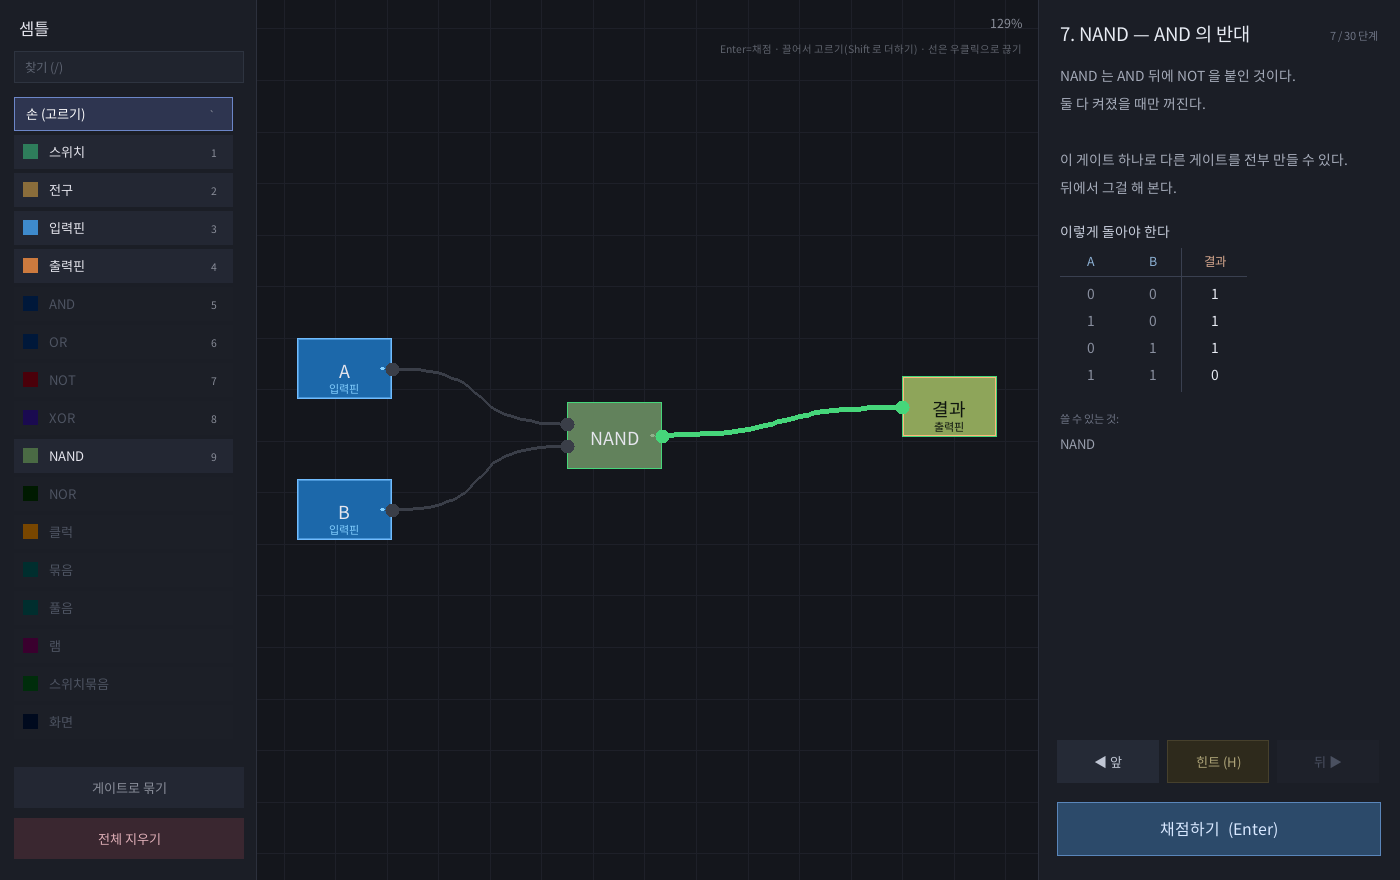
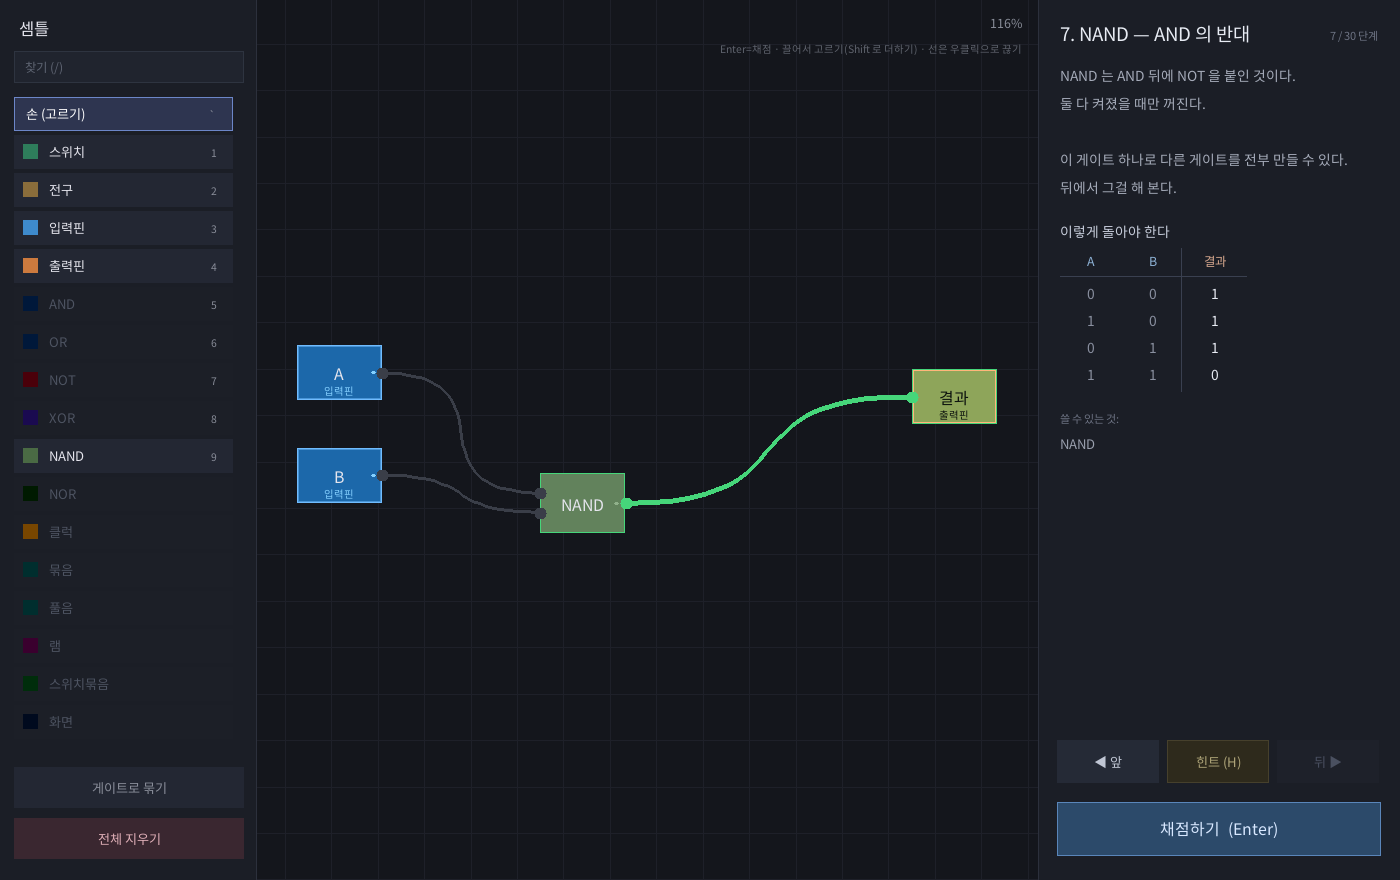
폭 있는 입력핀을 칸으로, 24단계 문구 고침
8비트 입력핀을 눌러도 0 아니면 1 밖에 안 들어갔다. 이제 스위치묶음처럼
칸이 생겨서 비트를 하나씩 켠다. 1비트 핀은 예전처럼 통째로 뒤집힌다.

핀이 커지니 학습 단계에서 서로 겹쳐서, 시작할 때 핀 키만큼 띄우게 했다.

24단계 설명에서 만든 사람 얘기를 뺐다. 남들이 쓰는 것이라 안 맞는다.

정답 그림도 다시 뽑았다.

diff --git a/semtle.cpp b/semtle.cpp
@@ -198,6 +198,13 @@ static bool canFold(const Comp& c) {
 static bool isFolded(const Comp& c) {
     return canFold(c) && (c.aux & FOLD_BIT);
 }
+// 칸을 눌러 비트를 켜는 것들. 폭 있는 입력핀도 스위치묶음처럼 다룬다 —
+// 안 그러면 8비트 핀을 눌러도 0 아니면 1 밖에 못 넣는다.
+static bool isBitBank(const Comp& c) {
+    if (c.chipId >= 0) return false;
+    if (c.type == SWBANK) return true;
+    return c.type == PIN_IN && widthOf(c) > 1;
+}
 // 화면이 받는 줄 수 (n). 폭(m)은 widthOf 가 준다.
 static int screenRows(const Comp& c) {
     if (c.type != SCREEN) return 1;
@@ -903,12 +910,12 @@ static void zoomAt(float nz, int sx, int sy) {
 // 안 돌린 상태의 크기
 static int baseW(const Comp& c) {
     if (c.type == SCREEN) return std::max(GW_MIN, widthOf(c) * 14 + 20);
-    if (c.type == SWBANK) return std::max(GW_MIN, 64);
+    if (isBitBank(c)) return std::max(GW_MIN, textWidth(13, compName(c)) + 24);
     return std::max(GW_MIN, textWidth(15, compName(c)) + 26);
 }
 static int baseH(const Comp& c) {
     if (c.type == SCREEN) return std::max(48, screenRows(c) * 14 + 28);
-    if (c.type == SWBANK) return std::max(48, widthOf(c) * 20 + 24);
+    if (isBitBank(c)) return std::max(48, widthOf(c) * 20 + 34);
     if (isFolded(c)) return 52;          // 접으면 게이트만 한 크기
     return std::max(48, std::max(nIn(c), nOut(c)) * 20 + 12);
 }
@@ -1143,11 +1150,12 @@ static bool inPortAt(int mx, int my, int& comp, int& port) {
 }
 // 스위치묶음에서 누른 비트 자리 (없으면 -1)
 static int swBankBitAt(const Comp& c, int wx2, int wy2) {
-    if (c.type != SWBANK) return -1;
+    if (!isBitBank(c)) return -1;
     int w = compW(c), h = compH(c);
     if (wx2 < c.x || wx2 >= c.x + w || wy2 < c.y || wy2 >= c.y + h) return -1;
     int wd = widthOf(c), pad = 4;
-    int rowH = (h - 20 - pad) / std::max(1, wd);
+    int top = (c.type == PIN_IN) ? 18 : 0;
+    int rowH = (h - 20 - pad - top) / std::max(1, wd);
     if (rowH <= 0) return -1;
     int fromBottom = (c.y + h - 20) - wy2;
     if (fromBottom < 0) return -1;
@@ -1650,9 +1658,9 @@ static const Lesson LESSONS[] = {
     { "계산기", "24. 더하고 빼기",
       "덧셈기로 빼기도 한다.\n\n"
       "B 를 뒤집고 1 을 더하면 -B 가 된다(2의 보수).\n"
-      "네가 만든 4비트 가감산기와 같은 수법이다.\n\n"
-      "빼기 신호를 B 의 각 비트와 XOR 하고,\n"
-      "그 신호를 맨 아랫자리 올림입력에도 넣으면 된다.",
+      "그러면 A + (-B) 가 A - B 다.\n\n"
+      "빼기 신호를 B 의 각 비트와 XOR 하면 뒤집히고,\n"
+      "그 신호를 1 로도 쓰면 +1 까지 한꺼번에 된다.",
       3, 1, { "A", "B", "빼기" }, { "결과" },
       {}, "덧셈기8 묶음 풀음 XOR", true,
       "풀음으로 B 를 여덟 가닥 푼다.\n각 가닥을 빼기와 XOR 한다.\n묶음으로 다시 묶어 덧셈기8 의 B 에.\n빼기가 1이면 +1 도 해야 하는데,\n덧셈기8 에 올림입력이 없으니 A 쪽에 1을 더해도 된다.",
@@ -1856,17 +1864,22 @@ static bool gradeLesson(const Lesson& L, char* why, size_t whyN) {
 static void setupLesson(int at) {
     const Lesson& L = LESSONS[std::clamp(at, 0, LESSON_N - 1)];
     world = SubSim{};
+    // 폭 있는 입력핀은 칸이 여럿이라 키가 크다. 겹치지 않게 키만큼 띄운다.
+    int y = 60;
     for (int i = 0; i < L.nIn; ++i) {
-        int c = addComp(world, PIN_IN, 90, 120 + i * 110);
+        int c = addComp(world, PIN_IN, 90, y);
         world.comps[c].label = L.inName[i];
         world.comps[c].aux = lesInW(L, i);
         resizePorts(world.comps[c]);
+        y += compH(world.comps[c]) + 40;
     }
+    y = 80;
     for (int i = 0; i < L.nOut; ++i) {
-        int c = addComp(world, PIN_OUT, 560, 150 + i * 110);
+        int c = addComp(world, PIN_OUT, 620, y);
         world.comps[c].label = L.outName[i];
         world.comps[c].aux = lesOutW(L, i);
         resizePorts(world.comps[c]);
+        y += compH(world.comps[c]) + 40;
     }
     viewZoom = 1.0f; viewX = 0; viewY = 0;
 }
@@ -2267,7 +2280,33 @@ static void drawComp(SDL_Renderer* ren, int idx, const std::vector<int>& sel) {
     int   ts = std::max(7, (int)(15 * viewZoom));     // 글자 크기도 같이 줄고 는다
     int   cx = box.x + box.w / 2;
 
-    if (isPin(c.type)) {
+    if (isBitBank(c)) {
+        // 겉모습이 스위치 n개다. 칸을 눌러 그 비트를 켜고 끈다.
+        fillRect(ren, box, shade(base, -34));
+        frameRect(ren, box, shade(base, 40));
+        // 핀이면 이름을 위에 적어 준다 (어느 입력인지 알아야 하니까)
+        if (c.type == PIN_IN)
+            drawTextC(ren, cx, box.y + w2sLen(3), 13, 0xC8DCF4, compName(c));
+        int wd = widthOf(c);
+        Val v = c.out.empty() ? 0 : c.out[0];
+        int pad = std::max(2, w2sLen(4));
+        int top = (c.type == PIN_IN) ? w2sLen(18) : 0;
+        int rowH = (box.h - w2sLen(20) - pad - top) / std::max(1, wd);
+        for (int i = 0; i < wd; ++i) {
+            bool on = (v >> i) & 1;                     // 0번이 맨 아래
+            Rect r{ box.x + pad, box.y + box.h - w2sLen(20) - (i + 1) * rowH,
+                    box.w - pad * 2, std::max(2, rowH - 1) };
+            fillRect(ren, r, on ? blend(base, COL_ON, 170) : 0x252A30);
+            if (rowH >= w2sLen(9)) {
+                char d[2] = { (char)('0' + (on ? 1 : 0)), 0 };
+                drawTextC(ren, r.x + r.w/2, r.y + (r.h - S(11))/2, 11,
+                          on ? 0x0E140F : 0x6C7280, d);
+            }
+        }
+        char b2[24]; std::snprintf(b2, sizeof(b2), "%d", (int)v);
+        drawTextC(ren, cx, box.y + box.h - w2sLen(18), std::max(8, (int)(12 * viewZoom)),
+                  0xC8E8D0, b2);
+    } else if (isPin(c.type)) {
         // 핀은 제 이름이 곧 얼굴이다. 칩의 어느 포트가 될지 알아보게 테두리를 굵게.
         uint32_t col = on ? blend(base, COL_ON, 120) : shade(base, -34);
         fillRect(ren, box, col);
@@ -2311,28 +2350,6 @@ static void drawComp(SDL_Renderer* ren, int idx, const std::vector<int>& sel) {
             drawTextC(ren, cx, box.y + box.h/2 + w2sLen(4), std::max(7, (int)(11 * viewZoom)),
                       0xE0C0E8, b2);
         }
-    } else if (c.type == SWBANK) {
-        // 겉모습이 스위치 n개다. 칸을 눌러 그 비트를 켜고 끈다.
-        fillRect(ren, box, shade(base, -34));
-        frameRect(ren, box, shade(base, 40));
-        int wd = widthOf(c);
-        Val v = c.out.empty() ? 0 : c.out[0];
-        int pad = std::max(2, w2sLen(4));
-        int rowH = (box.h - w2sLen(20) - pad) / std::max(1, wd);
-        for (int i = 0; i < wd; ++i) {
-            bool on = (v >> i) & 1;                     // 0번이 맨 아래
-            Rect r{ box.x + pad, box.y + box.h - w2sLen(20) - (i + 1) * rowH,
-                    box.w - pad * 2, std::max(2, rowH - 1) };
-            fillRect(ren, r, on ? blend(base, COL_ON, 170) : 0x252A30);
-            if (rowH >= w2sLen(9)) {
-                char d[2] = { (char)('0' + (on ? 1 : 0)), 0 };
-                drawTextC(ren, r.x + r.w/2, r.y + (r.h - S(11))/2, 11,
-                          on ? 0x0E140F : 0x6C7280, d);
-            }
-        }
-        char b2[24]; std::snprintf(b2, sizeof(b2), "%d", (int)v);
-        drawTextC(ren, cx, box.y + box.h - w2sLen(18), std::max(8, (int)(12 * viewZoom)),
-                  0xC8E8D0, b2);
     } else if (c.type == SCREEN) {
         // n줄 × m칸 점 격자. 입력 하나가 한 줄, 비트 하나가 점 하나.
         fillRect(ren, box, 0x14181E);
@@ -5293,6 +5310,49 @@ static int runTests() {
         check("화면이 줄마다 값을 받는다", def && five && four && got && big, buf);
     }
 
+    // 60. 폭 있는 입력핀은 칸을 눌러 비트를 넣는다 (스위치묶음과 같게)
+    {
+        screen = SC_SANDBOX; world = SubSim{}; chips.clear(); editStack.clear();
+        int p1 = addComp(world, PIN_IN, 100, 100);          // 1비트 — 예전처럼
+        int p8 = addComp(world, PIN_IN, 400, 100);
+        world.comps[p8].aux = 8; resizePorts(world.comps[p8]);
+
+        bool oneBitPlain = !isBitBank(world.comps[p1]);
+        bool eightIsBank = isBitBank(world.comps[p8]);
+        bool taller = compH(world.comps[p8]) > compH(world.comps[p1]);
+
+        // 칸을 눌러 181 을 만든다
+        int want = 181;
+        for (int i = 0; i < 8; ++i) {
+            Comp& c = world.comps[p8];
+            int w = compW(c), h = compH(c), wd = widthOf(c), pad = 4, top = 18;
+            int rowH = (h - 20 - pad - top) / wd;
+            int yy = (c.y + h - 20) - i * rowH - rowH / 2;
+            int bit = swBankBitAt(c, c.x + w / 2, yy);
+            if (bit == i && ((want >> i) & 1))
+                c.out[0] = maskTo((Val)(c.out[0] ^ (1u << bit)), wd);
+        }
+        // 그 값이 선을 타고 나가는지
+        int sp = addComp(world, SPLIT, 700, 100);
+        addWire(world, p8, 0, sp, 0);
+        std::vector<int> lp;
+        for (int i = 0; i < 8; ++i) {
+            int q = addComp(world, LAMP, 900, 40 + i * 40);
+            lp.push_back(q); addWire(world, sp, i, q, 0);
+        }
+        settle();
+        int got = 0; for (int i = 0; i < 8; ++i) if (lit(world.comps[lp[i]])) got |= (1 << i);
+
+        // 1비트 핀은 여전히 그냥 뒤집힌다
+        world.comps[p1].out[0] = !world.comps[p1].out[0];
+        bool plainWorks = (world.comps[p1].out[0] == 1);
+
+        std::snprintf(buf, sizeof(buf), "1비트는 그대로 %d, 8비트는 칸 %d·더 큼 %d, 눌러서 %d, 1비트 토글 %d",
+                      (int)oneBitPlain, (int)eightIsBank, (int)taller, got, (int)plainWorks);
+        check("폭 있는 입력핀은 칸으로 넣는다",
+              oneBitPlain && eightIsBank && taller && got == want && plainWorks, buf);
+    }
+
     std::printf("\n%s\n", failed ? "실패 있음" : "전부 통과");
     world = SubSim{}; chips.clear(); editStack.clear();
     return failed ? 1 : 0;
@@ -6250,13 +6310,15 @@ int main(int argc, char** argv) {
                             // 입력핀도 눌러서 켠다. 안 그러면 묶기 전에 회로를 못 돌려 본다.
                             int t = world.comps[dragComp].type;
                             bool flipped = false;
-                            if (!dragMoved && (t == SWITCH || t == PIN_IN)) {
+                            if (!dragMoved && (t == SWITCH || t == PIN_IN)
+                                && !isBitBank(world.comps[dragComp])) {
                                 auto& o = world.comps[dragComp].out;
                                 if (!o.empty()) { o[0] = !o[0]; flipped = true; }
                             }
-                            // 스위치묶음은 누른 칸의 비트만 뒤집는다
-                            if (!dragMoved && t == SWBANK) {
+                            // 여러 비트짜리는 누른 칸의 비트만 뒤집는다
+                            if (!dragMoved && isBitBank(world.comps[dragComp])) {
                                 Comp& c = world.comps[dragComp];
+                                (void)t;
                                 int bit = swBankBitAt(c, wx, wy);
                                 if (bit >= 0 && !c.out.empty()) {
                                     c.out[0] = maskTo((Val)(c.out[0] ^ (1u << bit)), widthOf(c));
